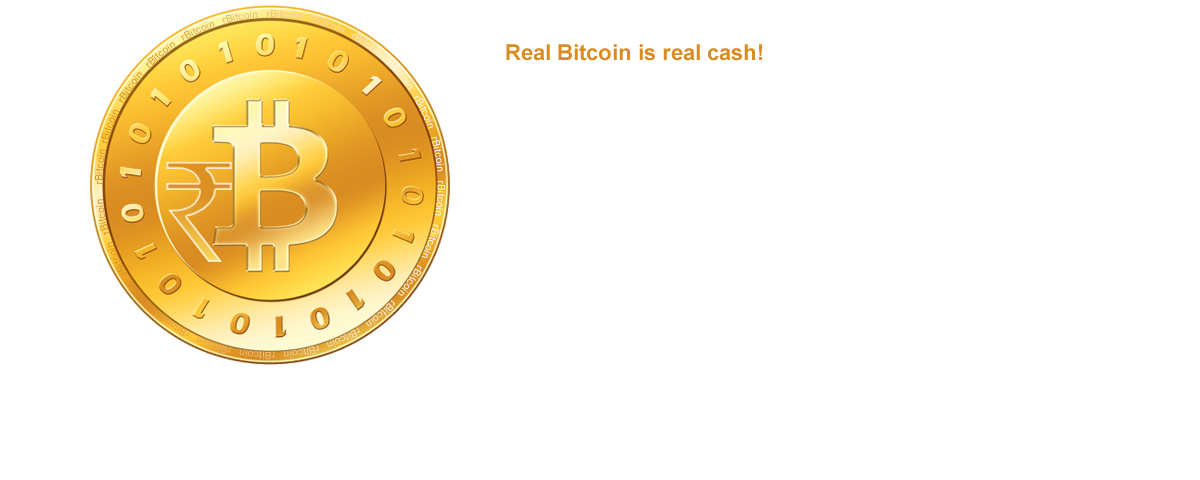
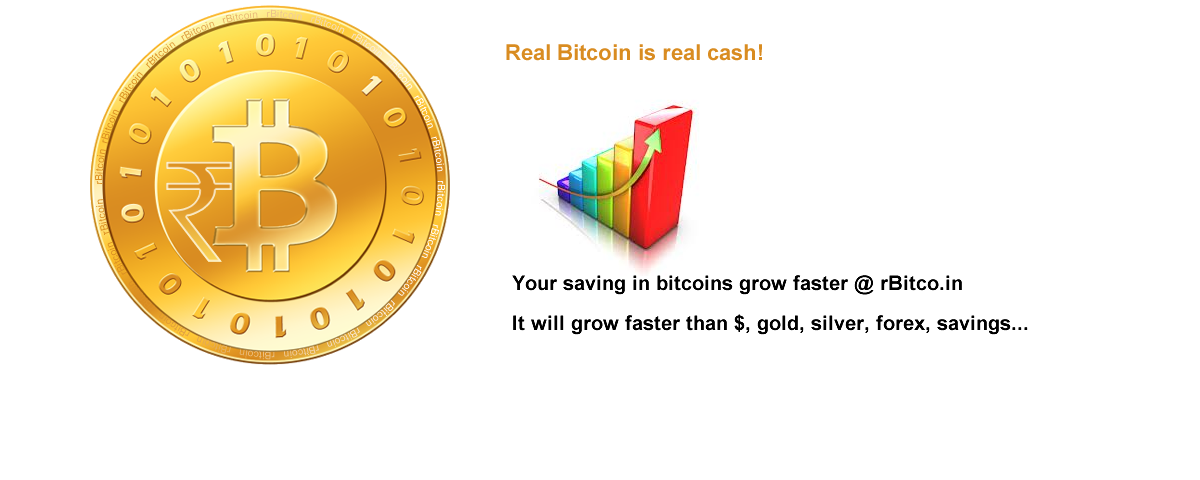
final

Changed region(s): [[0.4317, 0.2188, 0.8017, 0.625], [0.4317, 0.6562, 0.8633, 0.6875]]

diff --git a/app/views/pages/home.html.php b/app/views/pages/home.html.php
@@ -5,29 +5,29 @@
 		<div class="active item">
 			<img src="/img/rBitCoin01.png" alt="real bitcoin">
 			<div class="carousel-caption">
-			  <h4>Your digital money</h4>
-			  <p>Your digital money is safe with rBitco.in. <a href="#">Check this link</a></p>
+			  <h4>Bitcoin - virtual currency</h4>
+			  <p>Bitcoin is a virtual currency. Invest today in bitcoins at rbitco.in, you will see it grow faster than any other investment. <a href="/articles/whyuse_rBitCoin">Why use rBitco.in?</a></p>
 			</div>
 		</div>
 		<div class="item">
 			<img src="/img/rBitCoin02.png" alt="">
 			<div class="carousel-caption">
 			  <h4>How it works</h4>
-			  <p></p>
+			  <p>rBitcoin pays interest, pays on referrals, signups and also on deposits. It is going to integrate with ripple.com soon! <a href="/users/">How users benifit?</a></p>
 			</div>
 		</div>
 		<div class="item">
 			<img src="/img/rBitCoin03.png" alt="">
 			<div class="carousel-caption">
-			  <h4>What users say?</h4>
-			  <p></p>
+			  <h4>Transact online - low fees</h4>
+			  <p>Transact online to buy good, play games or just send it to friends and relatives. The site uses SSL and is secure.</p>
 			</div>
 		</div>
 		<div class="item">
 			<img src="/img/rBitCoin04.png" alt="">
 			<div class="carousel-caption">
-			  <h4>Check out the press!</h4>
-			  <p></p>
+			  <h4>What users say!</h4>
+			  <p>Users <a href="/users/reviews">reviews</a> and <a href="/articles/press">press</a>.</p>
 			</div>
 		</div>
 	</div>
@@ -36,8 +36,8 @@
 	<a class="carousel-control right" href="#myCarousel" data-slide="next">&rsaquo;</a>
 </div>
 <div style="text-align:center ">
-	<button class="btn btn-large" type="button" onClick="$('#myCarousel').carousel(0)">Your digital money</button>
+	<button class="btn btn-large" type="button" onClick="$('#myCarousel').carousel(0)">rBitco.in</button>
 	<button class="btn btn-large" type="button" onClick="$('#myCarousel').carousel(1)">How it works?</button>
-	<button class="btn btn-large" type="button" onClick="$('#myCarousel').carousel(2)">What users say?</button>
-	<button class="btn btn-large" type="button" onClick="$('#myCarousel').carousel(3)">Check out the press!</button>
+	<button class="btn btn-large" type="button" onClick="$('#myCarousel').carousel(2)">Transact online?</button>
+	<button class="btn btn-large" type="button" onClick="$('#myCarousel').carousel(3)">What users say!</button>
 </div>

diff --git a/app/controllers/ArticlesController.php b/app/controllers/ArticlesController.php
@@ -33,5 +33,11 @@ class ArticlesController extends \lithium\action\Controller {
 		return compact('title');	
 	
 	}
+	
+	public function press(){
+		$title = "Press releases"	;
+		return compact('title');	
+	
+	}
 }
 ?>

diff --git a/app/views/articles/press.html.php b/app/views/articles/press.html.php
@@ -1,0 +1,1 @@
+<h4>Press</h4>
